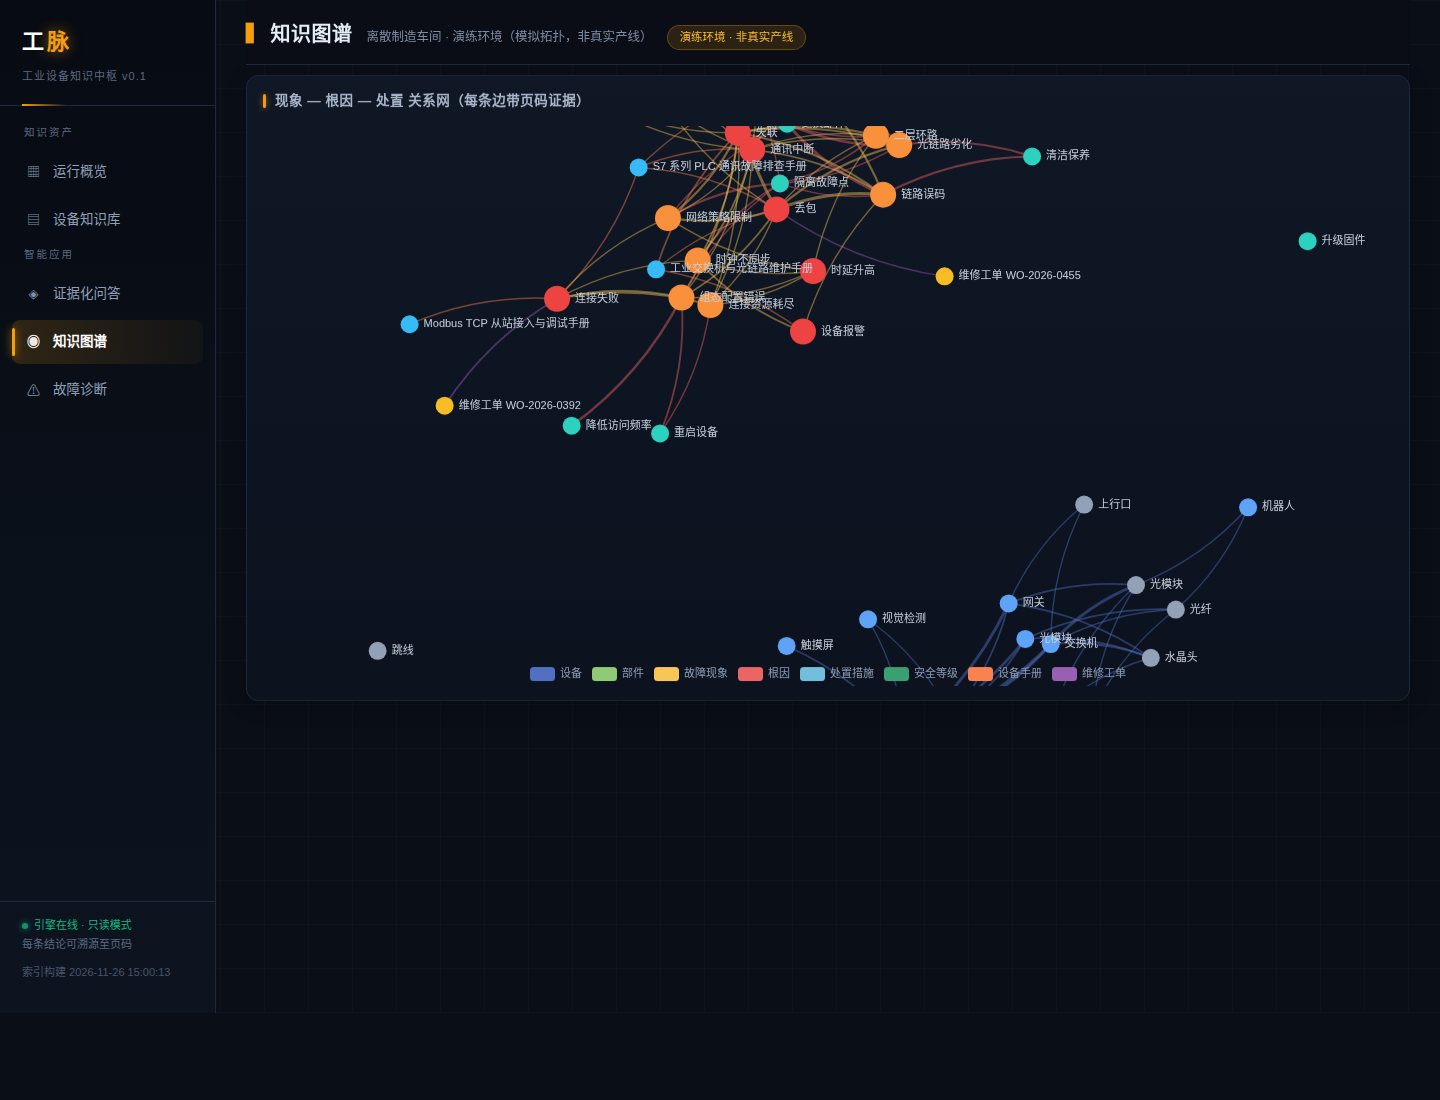
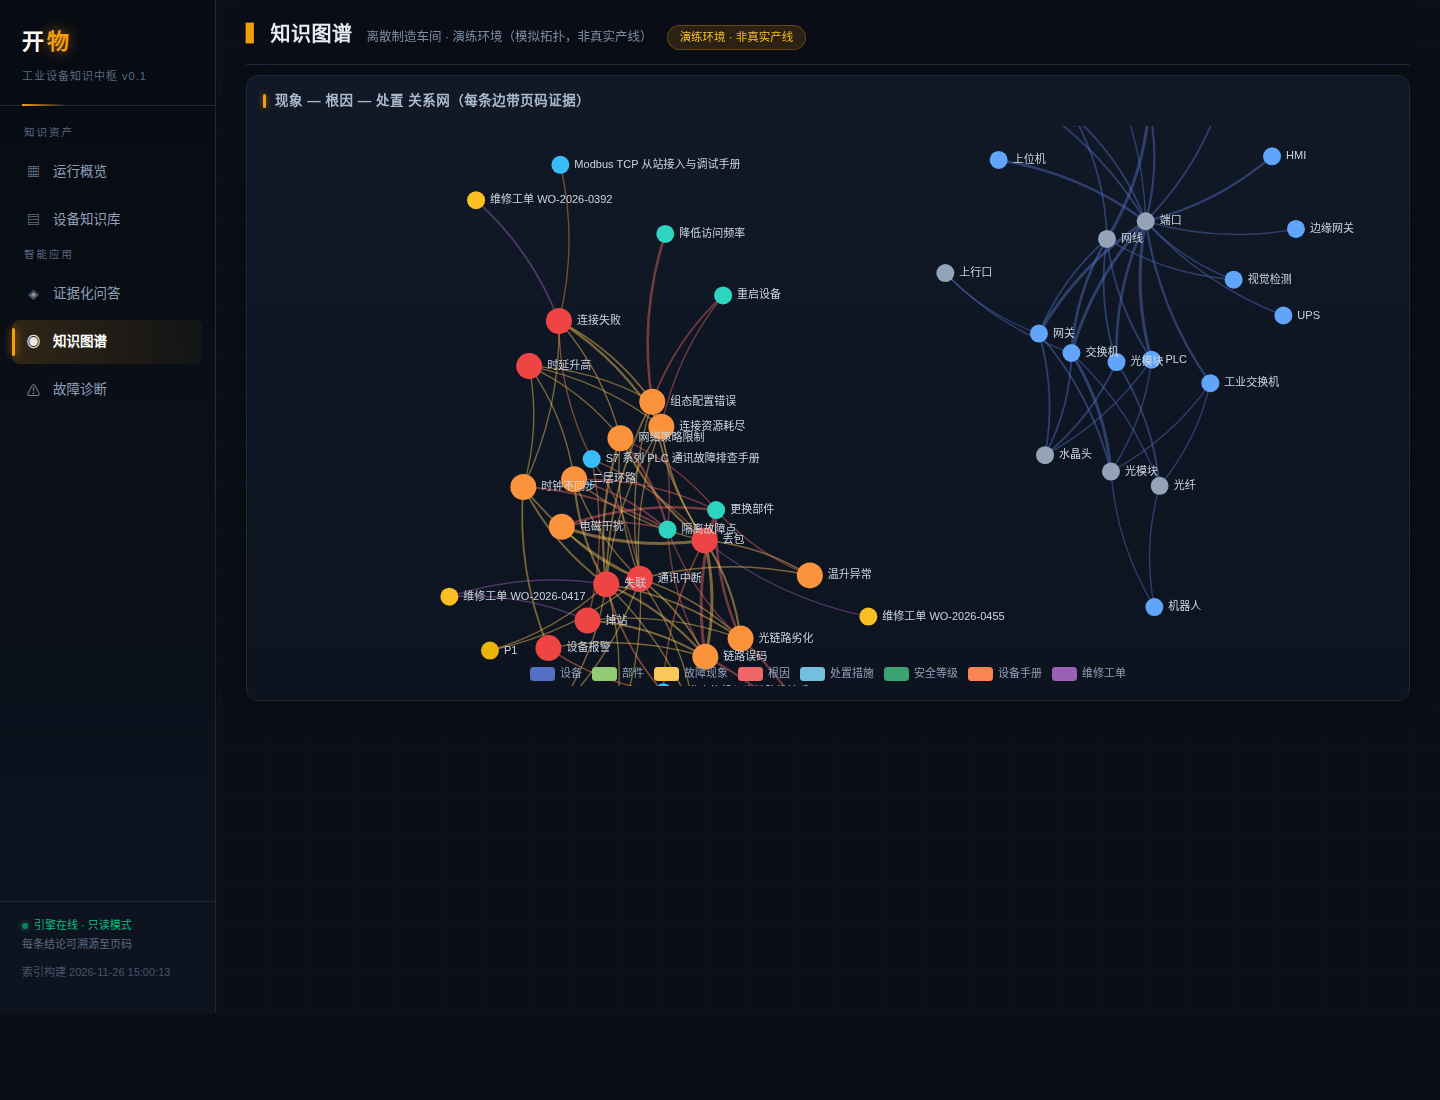
feat(brand): 作品更名「开物」——取自《天工开物》与《易经》开物成务，README 补充名字由来与工业文脉传承定位

diff --git a/web/index.html b/web/index.html
@@ -3,7 +3,7 @@
 <head>
 <meta charset="utf-8">
 <meta name="viewport" content="width=device-width, initial-scale=1">
-<title>工脉 · 工业设备知识中枢</title>
+<title>开物 · 工业设备知识中枢</title>
 <script src="/web/echarts.min.js"></script>
 <style>
   :root{
@@ -197,7 +197,7 @@
 <div class="app">
   <aside>
     <div class="brand">
-      <h1>工<b>脉</b></h1>
+      <h1>开<b>物</b></h1>
       <p>工业设备知识中枢 v0.1</p>
     </div>
     <nav>

diff --git a/app.py b/app.py
@@ -1,5 +1,5 @@
 #!/usr/bin/env python3
-"""app.py —— 工脉 v0.1 服务端（FastAPI）
+"""app.py —— 开物 v0.1 服务端（FastAPI）
 
 启动：
     python app.py            # http://127.0.0.1:8000
@@ -30,7 +30,7 @@ import core
 BASE = Path(__file__).resolve().parent
 WEB = BASE / "web"
 
-app = FastAPI(title="工脉 · 工业设备知识中枢 v0.1", version="0.1.0")
+app = FastAPI(title="开物 · 工业设备知识中枢 v0.1", version="0.1.0")
 
 
 @app.on_event("startup")

diff --git a/make_manuals.py b/make_manuals.py
@@ -72,7 +72,7 @@ def build(path: Path, title: str, doc_no: str, pages: list[list]) -> None:
     doc = SimpleDocTemplate(
         str(path), pagesize=A4,
         leftMargin=20 * mm, rightMargin=20 * mm, topMargin=18 * mm, bottomMargin=16 * mm,
-        title=title, author="工脉工业知识中枢演示文档",
+        title=title, author="开物工业知识中枢演示文档",
     )
     story = []
     for i, blocks in enumerate(pages, 1):

diff --git a/core.py b/core.py
@@ -1,5 +1,5 @@
 #!/usr/bin/env python3
-"""core.py —— 工脉 v0.1 领域引擎
+"""core.py —— 开物 v0.1 领域引擎
 
 职责（全部纯 Python，无重依赖，离线可跑）：
   1. 页码级解析：设备手册 PDF -> 带页码与章节的 chunk（PyMuPDF）

diff --git a/README.md b/README.md
@@ -1,10 +1,14 @@
-# 工脉 · 工业设备知识中枢 v0.1
+# 开物 · 工业设备知识中枢 v0.1
 
 > 基于大模型与工业垂直知识库的设备故障诊断与知识中枢（OPC-2026-0207 参赛作品原型）
 
+**名字由来**：取自宋应星《天工开物》与《易经》"开物成务"。四百年前，《天工开物》把散落的
+工农业技术整理成可查证的典籍；今天，开物把散落在设备手册、维修工单、点检表里的工业知识
+整理成可检索、可推理、可溯源的数字资产——让工业知识"开物"，即被激活、被使用、被传承。
+
 ## 一句话
 
-通用大模型答"网络通不通"，工脉答"这台设备为什么停、按哪本手册第几页修、先修哪个"。
+通用大模型答"网络通不通"，开物答"这台设备为什么停、按哪本手册第几页修、先修哪个"。
 它把设备手册、维修工单、点检表里的工业知识变成可检索、可推理、可溯源的资产，
 每条结论都能追到**手册页码**或**工单编号**，不编造、可核验。
 
